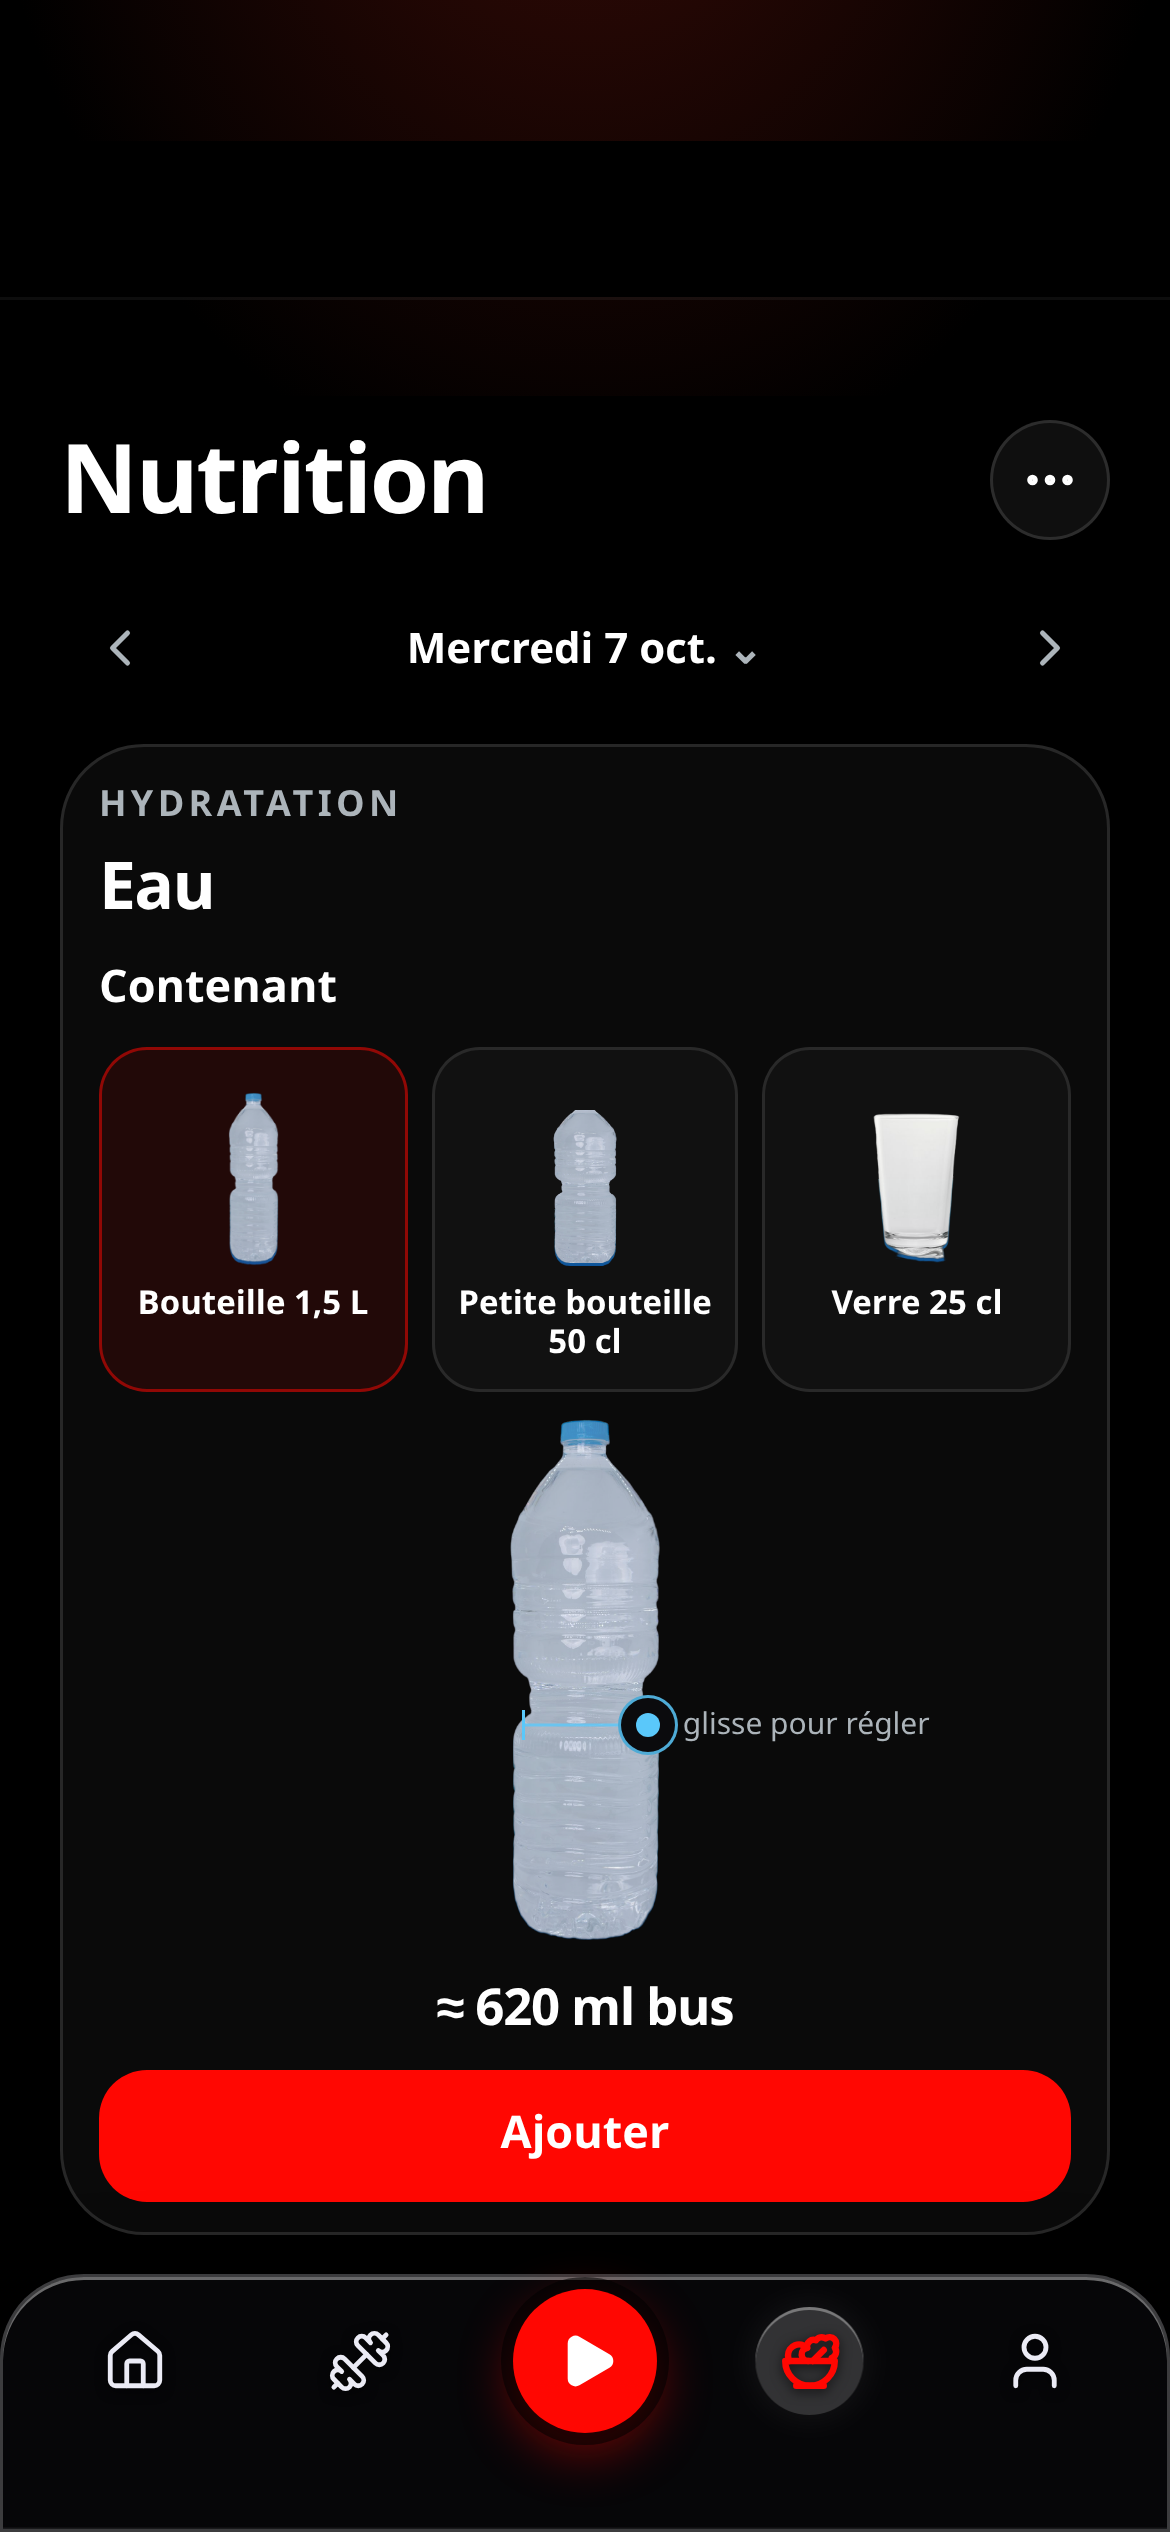
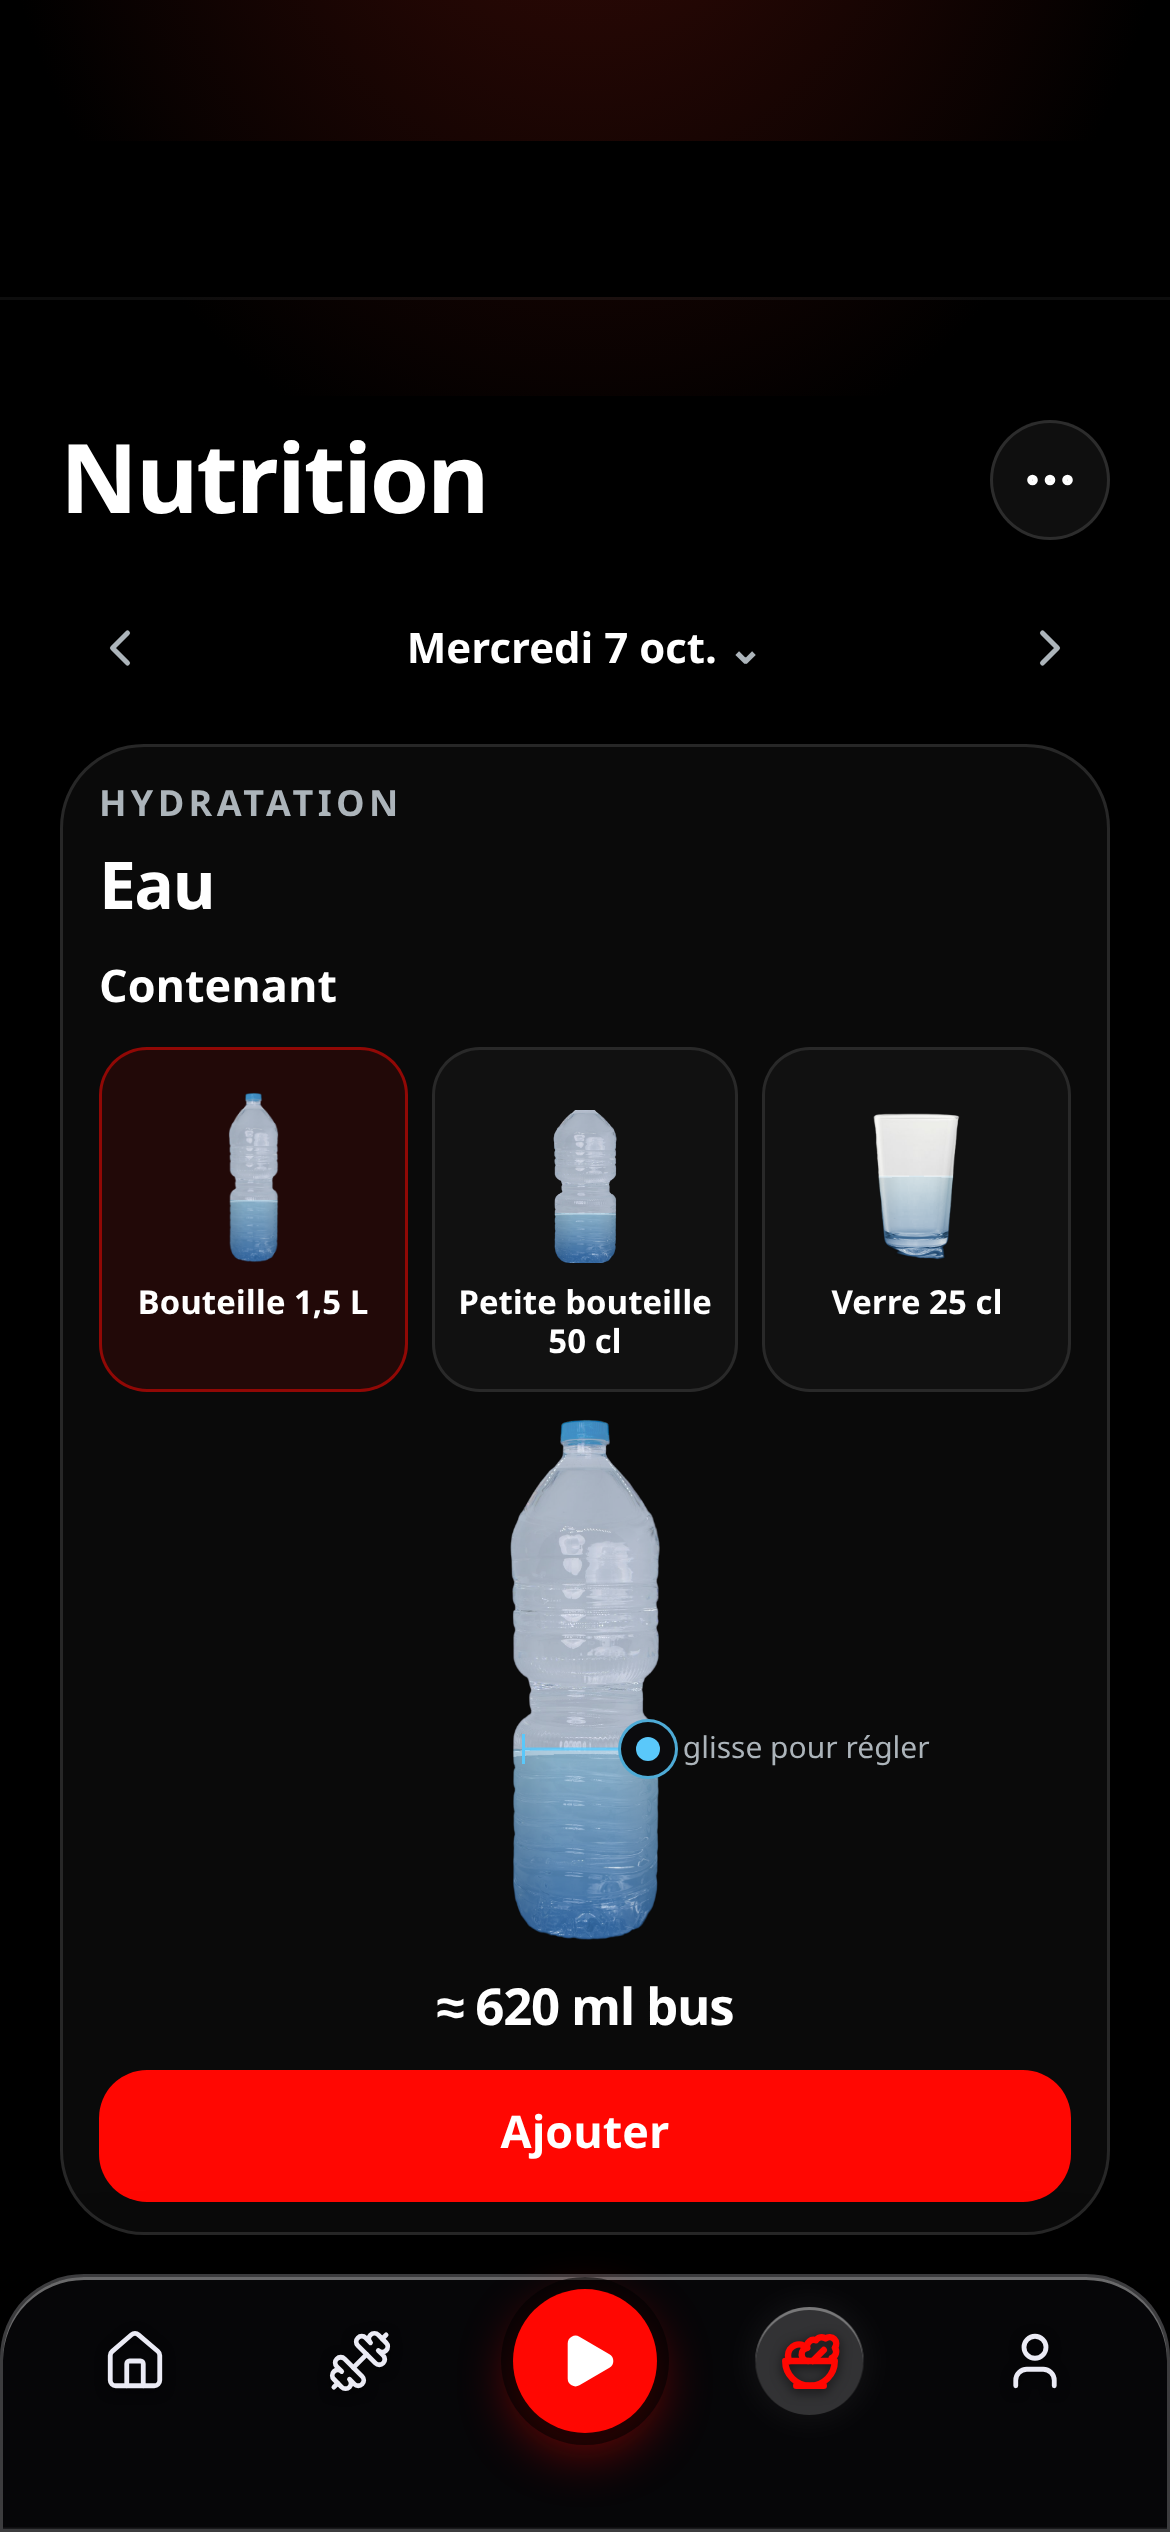
maquettes: eau translucide dans bouteilles (écrans 2+3)
Pré-compose l’eau (masque, ménisque, refraction) dans les PNG
détourés ; curseur aligné sur 620/1500 (hauteur utile). Accueil intact.

diff --git a/mockups/hydratation-v2/components/PhotoContainer.tsx b/mockups/hydratation-v2/components/PhotoContainer.tsx
@@ -1,20 +1,49 @@
-import bottle15 from '../assets/cutouts/shell_bottle_15.png'
-import bottle50 from '../assets/cutouts/shell_bottle_50.png'
-import glass25 from '../assets/cutouts/shell_glass.png'
-import gourde from '../assets/cutouts/shell_gourde.png'
+import type { CSSProperties } from 'react'
+import wet15 from '../assets/cutouts/wet_bottle_15.png'
+import wet50 from '../assets/cutouts/wet_bottle_50.png'
+import wetGlass from '../assets/cutouts/wet_glass_25.png'
+import wetGourd from '../assets/cutouts/wet_gourde.png'
 
 export type PhotoKind = 'plastic_15' | 'small_50' | 'glass_25' | 'gourd'
 
-const SRC: Record<PhotoKind, string> = {
-  plastic_15: bottle15,
-  small_50: bottle50,
-  glass_25: glass25,
-  gourd: gourde,
+/** Photos avec eau pré-composée (niveaux maquette). */
+const WET: Record<PhotoKind, string> = {
+  plastic_15: wet15,
+  small_50: wet50,
+  glass_25: wetGlass,
+  gourd: wetGourd,
 }
 
 /**
- * Contenant photo détouré + eau masquée au bon ratio.
- * Poignée collée à la surface de l'eau (ligne + pastille + trait).
+ * Zone remplissable (hors bouchon / col / base).
+ * fillRatio = ml/capacité → hauteur d’eau dans cette zone utile.
+ */
+const FILLABLE: Record<PhotoKind, { topInset: number; bottomInset: number }> = {
+  plastic_15: { topInset: 0.155, bottomInset: 0.035 },
+  small_50: { topInset: 0.14, bottomInset: 0.04 },
+  glass_25: { topInset: 0.06, bottomInset: 0.12 },
+  gourd: { topInset: 0.12, bottomInset: 0.03 },
+}
+
+/** Niveaux d’eau bakés dans les PNG wet_* (doivent matcher l’écran). */
+const BAKED_FILL: Record<PhotoKind, number> = {
+  plastic_15: 620 / 1500,
+  small_50: 0.35,
+  glass_25: 0.55,
+  gourd: 480 / 750,
+}
+
+/** Hauteur depuis le bas (0–1) de la surface de l’eau. */
+export function waterSurfaceFromBottom(kind: PhotoKind, fillRatio: number): number {
+  const { topInset, bottomInset } = FILLABLE[kind]
+  const useful = 1 - topInset - bottomInset
+  const r = Math.min(1, Math.max(0, fillRatio))
+  return bottomInset + r * useful
+}
+
+/**
+ * Contenant photo détouré avec eau déjà composée dans le PNG
+ * (translucide, ménisque, reflets conservés). Poignée sur la surface.
  */
 export function PhotoContainer({
   kind,
@@ -29,9 +58,13 @@ export function PhotoContainer({
   showHandle?: boolean
   handleLabel?: string
 }) {
-  const ratio = Math.min(1, Math.max(0, fillRatio))
-  const waterPct = `${Math.round(ratio * 1000) / 10}%`
+  // Utilise le niveau baké du PNG (maquette statique) — fillRatio doit matcher.
+  const ratio = BAKED_FILL[kind]
+  void fillRatio
+  const surface = waterSurfaceFromBottom(kind, ratio)
+  const waterPct = `${Math.round(surface * 1000) / 10}%`
   const isThumb = size === 'thumb'
+
   const heightClass =
     kind === 'gourd'
       ? isThumb
@@ -54,56 +87,33 @@ export function PhotoContainer({
       className={`relative mx-auto ${heightClass} ${isThumb ? 'w-auto' : 'w-full max-w-[200px]'}`}
       data-mockup-photo-container={kind}
       data-fill-ratio={ratio.toFixed(3)}
+      data-water-surface={surface.toFixed(3)}
     >
       <div className="relative mx-auto h-full w-fit">
-        {/* Eau clipée à la silhouette */}
-        <div
-          className="absolute inset-0"
-          style={{
-            WebkitMaskImage: `url(${SRC[kind]})`,
-            maskImage: `url(${SRC[kind]})`,
-            WebkitMaskSize: 'contain',
-            maskSize: 'contain',
-            WebkitMaskRepeat: 'no-repeat',
-            maskRepeat: 'no-repeat',
-            WebkitMaskPosition: 'center bottom',
-            maskPosition: 'center bottom',
-          }}
-          aria-hidden
-        >
-          <div
-            className="absolute inset-x-0 bottom-0"
-            style={{
-              height: waterPct,
-              background:
-                kind === 'gourd'
-                  ? 'linear-gradient(180deg, rgba(90,200,250,0.62) 0%, rgba(10,132,255,0.48) 100%)'
-                  : 'linear-gradient(180deg, rgba(160,230,255,0.72) 0%, rgba(70,180,235,0.70) 40%, rgba(10,132,255,0.58) 100%)',
-            }}
-          />
-          {/* ménisque sobre */}
-          <div
-            className="absolute inset-x-[12%] h-px bg-white/35"
-            style={{ bottom: waterPct }}
-          />
-        </div>
-
         <img
-          src={SRC[kind]}
+          src={WET[kind]}
           alt=""
           draggable={false}
-          className="relative z-[1] h-full w-auto select-none object-contain"
+          className="relative z-0 h-full w-auto select-none object-contain"
+          data-mockup-water-fill
+        />
+
+        {/* marqueur invisible pour asserts ménisque / surface */}
+        <span
+          className="pointer-events-none absolute inset-x-0 z-[1] h-0"
+          style={{ bottom: waterPct } as CSSProperties}
+          data-mockup-meniscus
+          aria-hidden
         />
 
         {showHandle ? (
           <div
-            className="pointer-events-none absolute inset-x-0 z-[2] h-5"
+            className="pointer-events-none absolute inset-x-0 z-[3] h-5"
             style={{ bottom: `calc(${waterPct} - 10px)` }}
             data-mockup-drag-handle
           >
-            {/* ligne au niveau de l'eau + pastille + graduation */}
             <div className="relative mx-auto h-5 w-[78%]">
-              <span className="absolute inset-x-0 top-1/2 h-px -translate-y-1/2 bg-[#5AC8FA]/80" />
+              <span className="absolute inset-x-0 top-1/2 h-px -translate-y-1/2 bg-[#5AC8FA]/85" />
               <span className="absolute left-0 top-1/2 h-2.5 w-px -translate-y-1/2 bg-[#5AC8FA]" />
               <span className="absolute right-0 top-1/2 flex h-5 w-5 -translate-y-1/2 translate-x-1/2 items-center justify-center rounded-full border border-[#5AC8FA]/85 bg-[#0B0B0D]">
                 <span className="h-2 w-2 rounded-full bg-[#5AC8FA]" />
@@ -126,9 +136,10 @@ export function PhotoThumb({
   kind: Exclude<PhotoKind, 'gourd'>
   fillRatio: number
 }) {
+  void fillRatio
   return (
     <div className="flex h-[64px] items-end justify-center" aria-hidden>
-      <PhotoContainer kind={kind} fillRatio={fillRatio} size="thumb" />
+      <PhotoContainer kind={kind} fillRatio={BAKED_FILL[kind]} size="thumb" />
     </div>
   )
 }

diff --git a/mockups/hydratation-v2/scripts/bake-water.py b/mockups/hydratation-v2/scripts/bake-water.py
@@ -1,0 +1,98 @@
+#!/usr/bin/env python3
+"""Bake translucent water into cutout PNGs (mockups only)."""
+from pathlib import Path
+import numpy as np
+from PIL import Image
+
+CUT = Path(__file__).resolve().parents[1] / 'assets' / 'cutouts'
+
+FILLABLE = {
+    'plastic_15': (0.155, 0.035),
+    'small_50': (0.14, 0.04),
+    'glass_25': (0.06, 0.12),
+    'gourd': (0.12, 0.03),
+}
+
+
+def surface_from_bottom(kind: str, fill_ratio: float) -> float:
+    top, bot = FILLABLE[kind]
+    return bot + max(0.0, min(1.0, fill_ratio)) * (1 - top - bot)
+
+
+def add_water(src: Path, dst: Path, kind: str, fill_ratio: float, opaque_body: bool = False) -> None:
+    im = Image.open(src).convert('RGBA')
+    arr = np.array(im).astype(np.float32)
+    h, w = arr.shape[:2]
+    alpha = arr[..., 3] / 255.0
+    rgb = arr[..., :3]
+
+    surface = surface_from_bottom(kind, fill_ratio)
+    y_surface = (1.0 - surface) * (h - 1)
+    yy = np.arange(h, dtype=np.float32)[:, None]
+    xx = np.arange(w, dtype=np.float32)[None, :]
+
+    inside = alpha > 0.15
+    water_mask = inside & (yy >= y_surface)
+
+    _top_i, bot_i = FILLABLE[kind]
+    water_bot = h - 1 - bot_i * h
+    depth = np.clip((yy - y_surface) / max(1.0, water_bot - y_surface), 0, 1)
+    depth = np.broadcast_to(depth, (h, w))
+
+    if opaque_body:
+        c_top = np.array([140, 220, 255], dtype=np.float32)
+        c_bot = np.array([30, 110, 190], dtype=np.float32)
+        strength = 0.38 + 0.32 * depth
+    else:
+        c_top = np.array([160, 230, 255], dtype=np.float32)
+        c_bot = np.array([15, 95, 175], dtype=np.float32)
+        strength = 0.42 + 0.38 * depth
+
+    water_col = c_top * (1 - depth[..., None]) + c_bot * depth[..., None]
+    lum = 0.2126 * rgb[..., 0] + 0.7152 * rgb[..., 1] + 0.0722 * rgb[..., 2]
+    spec = np.clip((lum - (160 if opaque_body else 175)) / 70.0, 0, 1)[..., None]
+
+    if opaque_body:
+        base = rgb / 255.0
+        ov = water_col / 255.0
+        soft = np.where(base < 0.5, 2 * base * ov, 1 - 2 * (1 - base) * (1 - ov)) * 255
+        tint = rgb * (1 - strength[..., None] * 0.7) + water_col * (strength[..., None] * 0.7)
+        blended = soft * 0.4 + tint * 0.6
+    else:
+        mult = (rgb / 255.0) * (water_col / 255.0) * 255.0
+        tint = rgb * (1 - strength[..., None] * 0.65) + water_col * (strength[..., None] * 0.65)
+        blended = mult * 0.45 + tint * 0.55
+
+    out_rgb = blended * (1 - spec * (0.9 if opaque_body else 0.85)) + rgb * (spec * (0.9 if opaque_body else 0.85))
+    cx = w / 2.0
+    rad = np.abs(xx - cx) / (w / 2.0)
+    side = np.clip((rad - 0.35) / 0.65, 0, 1)[..., None]
+    out_rgb = out_rgb * (1 - side * water_mask[..., None] * 0.12)
+
+    result = arr.copy()
+    result[..., :3] = np.where(water_mask[..., None], np.clip(out_rgb, 0, 255), rgb)
+
+    curve = y_surface + 0.006 * h * ((xx - cx) / (w / 2.0)) ** 2
+    meniscus = inside & (yy >= curve) & (yy <= curve + max(2.0, h * 0.01))
+    men_col = np.array([230, 245, 255], dtype=np.float32)
+    rr = result[..., :3]
+    rr = np.where(meniscus[..., None], rr * 0.55 + men_col * 0.45, rr)
+    line = inside & (np.abs(yy - curve) <= 0.9)
+    rr = np.where(line[..., None], np.minimum(rr + 45, 255), rr)
+    if opaque_body:
+        band = inside & (yy >= curve) & (yy <= curve + h * 0.025)
+        rr = np.where(band[..., None], rr * 0.85 + np.array([180, 230, 255]) * 0.15, rr)
+    result[..., :3] = np.clip(rr, 0, 255)
+    Image.fromarray(result.astype(np.uint8), 'RGBA').save(dst, optimize=True)
+    print(f'{dst.name}: fill={fill_ratio:.3f} surface={surface:.3f}')
+
+
+def main() -> None:
+    add_water(CUT / 'shell_bottle_15.png', CUT / 'wet_bottle_15.png', 'plastic_15', 620 / 1500, False)
+    add_water(CUT / 'shell_bottle_50.png', CUT / 'wet_bottle_50.png', 'small_50', 0.35, False)
+    add_water(CUT / 'shell_glass.png', CUT / 'wet_glass_25.png', 'glass_25', 0.55, False)
+    add_water(CUT / 'shell_gourde.png', CUT / 'wet_gourde.png', 'gourd', 480 / 750, True)
+
+
+if __name__ == '__main__':
+    main()

diff --git a/mockups/hydratation-v2/README.md b/mockups/hydratation-v2/README.md
@@ -12,6 +12,8 @@ Recapture 2+3 : `node mockups/hydratation-v2/capture.mjs`
 
 Choix rendu : **photos détourées** (plus crédibles que l’illustration SVG A/B `_ab_svg_alimentation.png`).
 
+Eau intérieure (écrans 2+3) : pré-composée dans `assets/cutouts/wet_*.png` via `scripts/bake-water.py` (masque silhouette, bleu translucide, ménisque, assombrissement bas, reflets conservés). Niveau 1,5 L = 620/1500 sur la hauteur utile (hors bouchon).
+
 ## Sources & licences des photos
 
 | Asset | Source | Auteur | Licence | URL |
